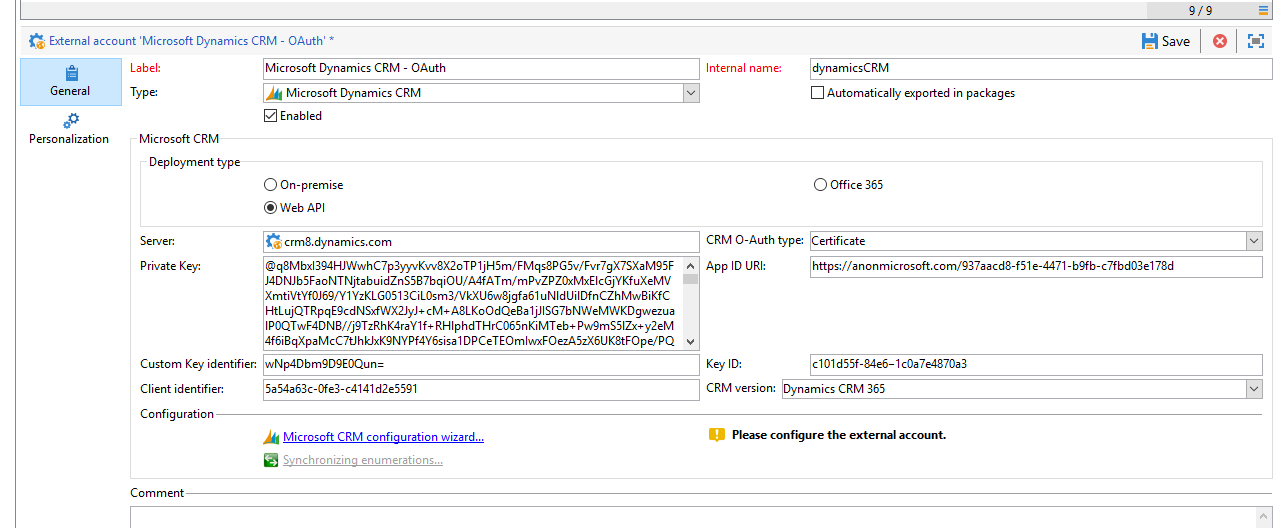
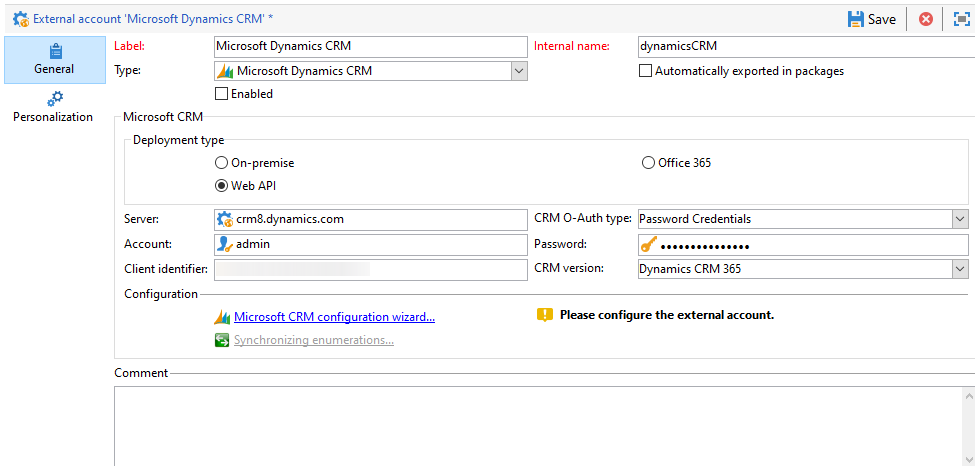
feedbacks

Changed region(s): [[0.0, 0.0, 1.0, 0.9013], [0.0923, 0.9013, 1.0, 0.9914], [0.6462, 0.3305, 0.7385, 0.3605]]

diff --git a/help/platform/using/crm-ms-dynamics.md b/help/platform/using/crm-ms-dynamics.md
@@ -41,7 +41,6 @@ In Campaign Classic:
 > When connecting Adobe Campaign with Microsoft Dynamics, you cannot:
 > * Install plug-ins which can change the CRM's behavior, and lead to compatibility issues with Adobe Campaign
 > * Select multiple enumerations
->  
 
 ## Configure Microsoft Dynamics CRM {#config-crm-microsoft}
 
@@ -79,7 +78,7 @@ The client secret is the key which is unique to the Client ID. To get the certif
    >
    >You can change the number of days, here `-days 365`, in the code sample for a longer certificate validity period.
 
-1. Click on the **manifest** link to get the **certificate key identifier** and the **key ID**.
+1. Click on the **Manifest** link to get the **Certificate key identifier (customKeyIdentifier)** and the **Key ID (keyId)**.
 
 ### Configure permissions {#config-permissions-microsoft}
 
@@ -106,6 +105,10 @@ The client secret is the key which is unique to the Client ID. To get the certif
 For more information on this, refer to [Azure documentation](https://docs.microsoft.com/en-us/azure/active-directory/manage-apps/grant-admin-consent#grant-admin-consent-from-the-azure-portal).
 
 ### Create an App User {#create-app-user-microsoft}
+
+>[!NOTE]
+>
+> This step is optional with **[!UICONTROL Password credentials]** authentication.
 
 The App user is the user that the application registered above will use. Any changes made to Microsoft Dynamics using the App registered above will be done via this user.
 

diff --git a/help/installation/using/external-accounts.md b/help/installation/using/external-accounts.md
@@ -314,7 +314,7 @@ With **[!UICONTROL Web API]** deployment type and **[!UICONTROL Password credent
 
 * **[!UICONTROL CRM version]**
 
-  Version of the CRM between **[!UICONTROL Dynamics CRM 2007]**, **[!UICONTROL Dynamics CRM 2015]** or **[!UICONTROL Dynamics CRM 2016]**.
+  Choose **[!UICONTROL Dynamics CRM 365]** CRM version.
 
 With **[!UICONTROL Web API]** deployment type and **[!UICONTROL Certificate]** authentication, you need to provide the following details:
 
